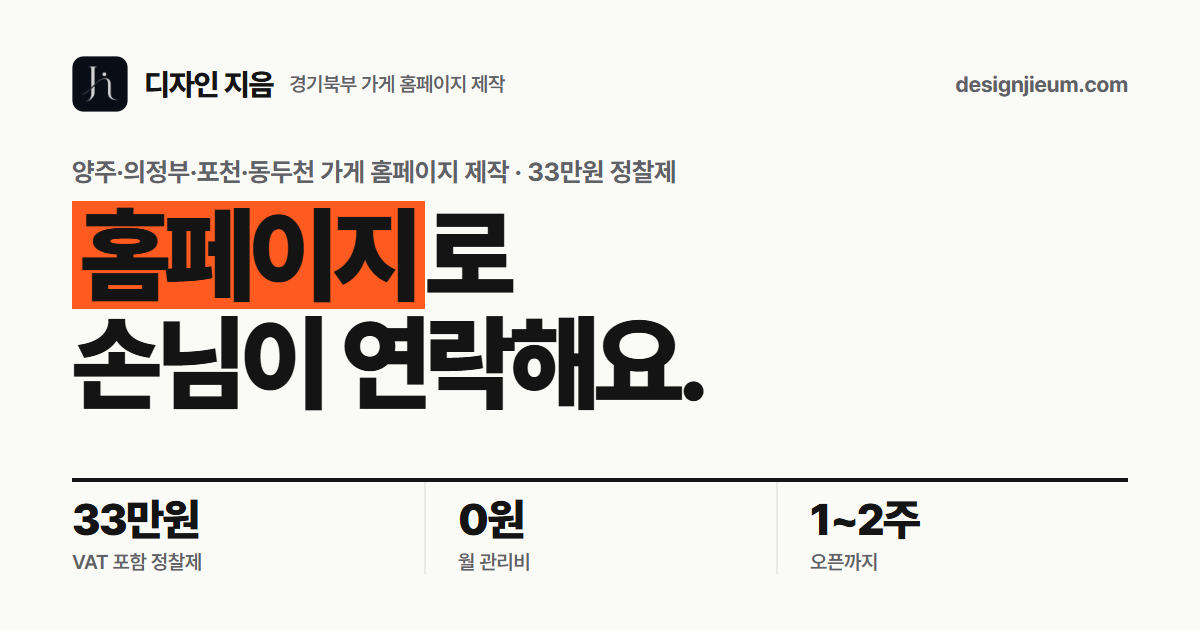
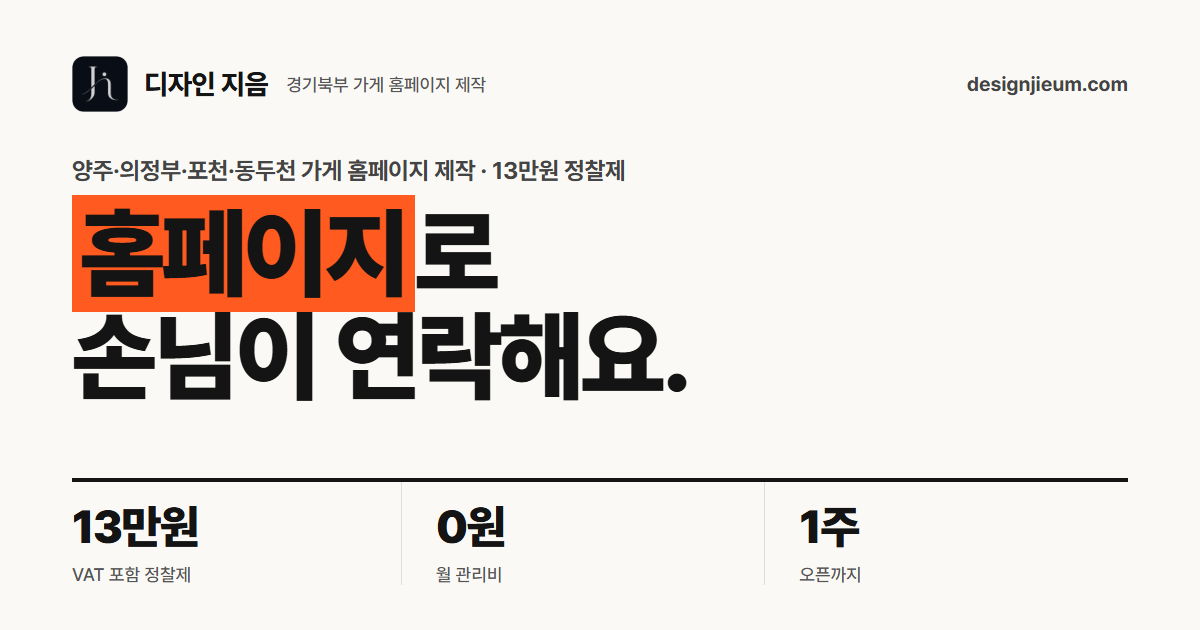
가격 33만원 → 13만원 변경 (SEO·메타태그·구조화 데이터·llms.txt·OG 이미지 포함)

diff --git a/index.html b/index.html
@@ -10,11 +10,11 @@
   <link rel="stylesheet" href="https://cdn.jsdelivr.net/gh/orioncactus/pretendard@v1.3.9/dist/web/static/pretendard-dynamic-subset.min.css" />
 
   <!-- 브라우저 탭 타이틀 -->
-  <title>디자인 지음 | 경기북부 소상공인 원페이지 홈페이지 제작 33만원</title>
+  <title>디자인 지음 | 경기북부 소상공인 원페이지 홈페이지 제작 13만원</title>
 
   <!-- 기본 SEO -->
-  <meta name="description" content="양주·의정부·포천·동두천 등 경기북부 소상공인을 위한 원페이지 홈페이지 제작. 1:1 매장 방문 인터뷰, 기획·카피라이팅·모바일 최적화·네이버 지도 연동까지 33만원 정찰제(VAT 포함), 월 관리비 0원, 1주 완성." />
-  <meta name="keywords" content="홈페이지 제작, 원페이지 제작, 랜딩페이지 제작, 소상공인 홈페이지, 양주 홈페이지 제작, 의정부 홈페이지 제작, 포천 홈페이지 제작, 동두천 홈페이지 제작, 경기북부 홈페이지, 33만원 홈페이지, 디자인 지음" />
+  <meta name="description" content="양주·의정부·포천·동두천 등 경기북부 소상공인을 위한 원페이지 홈페이지 제작. 1:1 매장 방문 인터뷰, 기획·카피라이팅·모바일 최적화·네이버 지도 연동까지 13만원 정찰제(VAT 포함), 월 관리비 0원, 1주 완성." />
+  <meta name="keywords" content="홈페이지 제작, 원페이지 제작, 랜딩페이지 제작, 소상공인 홈페이지, 양주 홈페이지 제작, 의정부 홈페이지 제작, 포천 홈페이지 제작, 동두천 홈페이지 제작, 경기북부 홈페이지, 13만원 홈페이지, 디자인 지음" />
   <meta name="author" content="디자인 지음" />
   <meta name="application-name" content="디자인 지음" />
   <meta name="robots" content="index, follow, max-image-preview:large" />
@@ -39,17 +39,17 @@
   <meta property="og:site_name" content="디자인 지음" />
   <meta property="og:locale" content="ko_KR" />
   <meta property="og:url" content="https://designjieum.com/" />
-  <meta property="og:title" content="디자인 지음 | 33만원 정찰제 원페이지 홈페이지" />
+  <meta property="og:title" content="디자인 지음 | 13만원 정찰제 원페이지 홈페이지" />
   <meta property="og:description" content="경기북부 소상공인을 위한 1:1 방문 맞춤 원페이지. 기획·카피·모바일 최적화 포함, 월 관리비 0원, 1주 완성." />
   <meta property="og:image" content="https://designjieum.com/og-image.png" />
   <meta property="og:image:width" content="1200" />
   <meta property="og:image:height" content="630" />
   <meta property="og:image:type" content="image/png" />
-  <meta property="og:image:alt" content="디자인 지음 - 손님을 부르는 원페이지 홈페이지, 33만원 정찰제로 2주 완성" />
+  <meta property="og:image:alt" content="디자인 지음 - 손님을 부르는 원페이지 홈페이지, 13만원 정찰제로 1주 완성" />
 
   <!-- Twitter / X -->
   <meta name="twitter:card" content="summary_large_image" />
-  <meta name="twitter:title" content="디자인 지음 | 33만원 정찰제 원페이지 홈페이지" />
+  <meta name="twitter:title" content="디자인 지음 | 13만원 정찰제 원페이지 홈페이지" />
   <meta name="twitter:description" content="경기북부 소상공인을 위한 1:1 방문 맞춤 원페이지. 기획·카피·모바일 최적화 포함, 월 관리비 0원, 1주 완성." />
   <meta name="twitter:image" content="https://designjieum.com/og-image.png" />
 
@@ -85,8 +85,8 @@
         "url": "https://designjieum.com/",
         "logo": "https://designjieum.com/favicon.png",
         "image": "https://designjieum.com/og-image.png",
-        "description": "경기북부 소상공인·자영업자를 위한 원페이지 홈페이지 제작 서비스. 1인 디렉터가 매장을 직접 방문해 인터뷰하고, 기획·카피라이팅·모바일 최적화·검색 등록까지 33만원 정찰제로 제작합니다.",
-        "priceRange": "₩330,000",
+        "description": "경기북부 소상공인·자영업자를 위한 원페이지 홈페이지 제작 서비스. 1인 디렉터가 매장을 직접 방문해 인터뷰하고, 기획·카피라이팅·모바일 최적화·검색 등록까지 13만원 정찰제로 제작합니다.",
+        "priceRange": "₩130,000",
         "currenciesAccepted": "KRW",
         "address": {
           "@type": "PostalAddress",
@@ -124,11 +124,11 @@
         "@id": "https://designjieum.com/#offer",
         "name": "손님이 연락하게 만드는 홈페이지",
         "description": "1:1 현장 방문 인터뷰, 전문 카피라이팅, 모바일 최적화 구조 설계, 반응형 구현, 네이버·구글 검색 등록, 네이버 지도 길찾기 및 전화/예약 버튼 연동, 카카오톡 공유 최적화, 사진 보정, 디자인 시안 1종 및 수정 2회 포함. 핵심 섹션 5~8개 구성.",
-        "price": "330000",
+        "price": "130000",
         "priceCurrency": "KRW",
         "priceSpecification": {
           "@type": "PriceSpecification",
-          "price": "330000",
+          "price": "130000",
           "priceCurrency": "KRW",
           "valueAddedTaxIncluded": true
         },
@@ -178,7 +178,7 @@
           {
             "@type": "Question",
             "name": "세금계산서나 현금영수증 발행이 가능한가요?",
-            "acceptedAnswer": { "@type": "Answer", "text": "네, 100% 정상 발행 가능합니다. 안내해 드린 33만원은 부가세(VAT)가 포함된 최종 정찰 금액이며, 결제 시 사업자등록증이나 발급용 번호를 알려주시면 즉시 발행해 드립니다." }
+            "acceptedAnswer": { "@type": "Answer", "text": "네, 100% 정상 발행 가능합니다. 안내해 드린 13만원은 부가세(VAT)가 포함된 최종 정찰 금액이며, 결제 시 사업자등록증이나 발급용 번호를 알려주시면 즉시 발행해 드립니다." }
           }
         ]
       }
@@ -192,7 +192,7 @@
     <!-- JS를 실행하지 않는 크롤러(AI 봇 등)용 정적 요약. 화면에는 보이지 않게 숨기고(sr-only), React 마운트 시 교체됩니다. -->
     <main style="position:absolute;width:1px;height:1px;margin:-1px;padding:0;overflow:hidden;clip:rect(0,0,0,0);white-space:nowrap;border:0">
       <h1 style="color:#fff;font-size:28px;line-height:1.35">디자인 지음 · 경기북부 소상공인 원페이지 홈페이지 제작</h1>
-      <p>양주·의정부·포천·동두천 등 경기북부 소상공인·자영업자를 위한, 손님이 연락하게 만드는 원페이지 홈페이지를 33만원 정찰제(VAT 포함)로 제작합니다. 월 관리비는 0원이며, 1:1 매장 인터뷰 후 1주 안에 오픈합니다.</p>
+      <p>양주·의정부·포천·동두천 등 경기북부 소상공인·자영업자를 위한, 손님이 연락하게 만드는 원페이지 홈페이지를 13만원 정찰제(VAT 포함)로 제작합니다. 월 관리비는 0원이며, 1:1 매장 인터뷰 후 1주 안에 오픈합니다.</p>
 
       <h2 style="color:#fff;font-size:20px;margin-top:32px">포함 내역 (핵심 섹션 5~8개)</h2>
       <ul>

diff --git a/src/lib/content.ts b/src/lib/content.ts
@@ -29,7 +29,7 @@ export const NAV = [
 export const CTA_LABEL = "카톡으로 1분 상담 받기";
 
 export const HERO = {
-  kicker: "양주·의정부·포천·동두천 가게 홈페이지 제작 · 33만원 정찰제",
+  kicker: "양주·의정부·포천·동두천 가게 홈페이지 제작 · 13만원 정찰제",
   // sign: true인 단어는 간판(주황 면)으로 점등, join: true면 다음 조각과 띄우지 않고 붙임
   titleLines: [
     [{ text: "홈페이지", sign: true }, { text: "보고" }],
@@ -41,7 +41,7 @@ export const HERO = {
   ],
   secondary: { label: "만든 홈페이지 먼저 보기", href: "#street" },
   facts: [
-    { value: "33만원", label: "VAT 포함" },
+    { value: "13만원", label: "VAT 포함" },
     { value: "0원", label: "월 관리비" },
     { value: "1주", label: "오픈까지" },
   ],
@@ -302,7 +302,7 @@ export const PRICE = {
   desc: "서버비 없이 만들고, 수정은 필요할 때만 받아요.",
   sign: {
     label: "원페이지 홈페이지 1건",
-    amount: "330,000원",
+    amount: "130,000원",
     rows: ["VAT 포함", "추가금 0원", "월 관리비 0원"],
     note: "핵심 섹션 5~8개 구성",
   },
@@ -395,7 +395,7 @@ export const FAQ = {
     },
     {
       q: "세금계산서나 현금영수증 발행이 가능한가요?",
-      a: "네, 100% 정상 발행 가능합니다. 안내해 드린 33만원은 부가세(VAT)가 포함된 최종 정찰 금액이며, 결제 시 사업자등록증이나 발급용 번호를 알려주시면 즉시 발행해 드립니다.",
+      a: "네, 100% 정상 발행 가능합니다. 안내해 드린 13만원은 부가세(VAT)가 포함된 최종 정찰 금액이며, 결제 시 사업자등록증이나 발급용 번호를 알려주시면 즉시 발행해 드립니다.",
     },
   ],
 };
